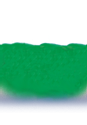
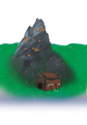
inventory display

Changed region(s): [[0.069, 0.12, 0.8966, 0.744], [0.8736, 0.672, 0.9885, 0.768]]

diff --git a/src/CustomStyle.js b/src/CustomStyle.js
@@ -28,7 +28,7 @@ const MOREMOREDEADGRASS = 15;
 const MOREDEADMTN = 16;
 const FISHMONGER = 17;
 const COURTHOUSE = 18;
-const MOREMOREMOREDEADGRASS = 19;
+const COPPERMTNCAMP = 19;
 const HARBOR = 20;
 const MARKET = 21;
 const TIMBERMILL = 22;
@@ -79,7 +79,7 @@ const CustomStyle = ({
   let doggers = useRef([]);
   let fish = useRef([]);
   let tiles = useRef([]);
-  let timber = useRef();
+  let inventoryImages = useRef({});
 
   let topLeftCorner = useRef();
   let topRightCorner = useRef();
@@ -128,7 +128,13 @@ const CustomStyle = ({
     rightEdge.current = p5.loadImage('/galleass/rightedge.png');
     leftEdge.current = p5.loadImage('/galleass/leftedge.png');
 
-    timber.current = p5.loadImage('/galleass/timber.png');
+    inventoryImages.current["greens"] = p5.loadImage('/galleass/greens.png')
+    inventoryImages.current["fillet"] = p5.loadImage('/galleass/fillet.png')
+    inventoryImages.current["timber"] = p5.loadImage('/galleass/timber.png')
+    inventoryImages.current["stone"] = p5.loadImage('/galleass/stone.png')
+    inventoryImages.current["copper"] = p5.loadImage('/galleass/copper.png')
+    inventoryImages.current["silver"] = p5.loadImage('/galleass/silver.png')
+
     //console.log("timber.current",timber.current)
 
     for (let c = 0; c < 7; c++) {
@@ -552,74 +558,135 @@ const CustomStyle = ({
       //if(populationsAtWork>0) console.log("There is a population of "+populationsAtWork+" at tile "+t+"...")
     }
 
-    const FOREST = 1;
-    const GRASS = 2;
-    const DOCK = 3;
-    const MOREGRASS = 4;
-    const RIVER = 5;
-    const EVENMOREGRASS = 6;
-    const SETTLERSDOCK = 7;
-    const COPPERMTN = 8;
-    const CORN = 9;
-    const DEADGRASS = 10;
-    const SETTLERS = 11;
-    const DEADMTN = 12;
-    const MOREDEADGRASS = 13;
-    const DEADTIMBER = 14;
-    const MOREMOREDEADGRASS = 15;
-    const MOREDEADMTN = 16;
-    const FISHMONGER = 17;
-    const COURTHOUSE = 18;
-    const MOREMOREMOREDEADGRASS = 19;
-    const HARBOR = 20;
-    const MARKET = 21;
-    const TIMBERMILL = 22;
-    const MININGCAMP = 23;
-    const MININGSHAFT = 24;
-    const MTN = 25;
-    const SILVERMTNCAMP = 26;
-    const SILVERMTN = 27;
-    const TIMBERCAMP = 28;
-    const VILLAGERS = 29;
-    const VILLAGERSDOCK = 30;
-    const WARRIORS = 31;
-    const WARRIORSDOCK = 32;
     */
 
-    let timberInventory = 0
+    let inventory = {}
+    let inventoryCount = 0
+
+    const addInventory = (name,amount)=>{
+      if(!inventory[name]) {
+        inventory[name] = {
+          amount: 0,
+          image: inventoryImages.current[name]
+        }
+        inventoryCount++
+      }
+      inventory[name].amount += amount
+    }
+
     for(let t in tileList){
       if(tileList[t]==FOREST){
-        //console.log("t",t,"FOREST")
-        timberInventory++
+        addInventory("timber",1)
       }else if(tileList[t]==TIMBERCAMP){
-        //console.log("t",t,"TIMBERCAMP")
-        timberInventory+=3
+        addInventory("timber",3)
       }else if(tileList[t]==TIMBERMILL){
-        //console.log("t",t,"TIMBERMILL")
-        timberInventory+=5
+        addInventory("timber",5)
       }
     }
+
+    for(let t in tileList){
+      if(tileList[t]==MTN){
+        addInventory("stone",1)
+      }else if(tileList[t]==MININGCAMP){
+        addInventory("stone",3)
+      }else if(tileList[t]==MININGSHAFT){
+        addInventory("stone",5)
+      }
+    }
+
+    for(let t in tileList){
+      if(tileList[t]==GRASS || tileList[t]==EVENMOREGRASS || tileList[t]==MOREGRASS || tileList[t]==DOCK ){
+        addInventory("greens",1)
+      }
+    }
+
+    for(let t in tileList){
+      if(tileList[t]==COPPERMTN ){
+        addInventory("copper", 3)
+      }else if(tileList[t]==COPPERMTNCAMP ){
+        addInventory("copper", 5)
+      }
+    }
+
+    for(let t in tileList){
+      if(tileList[t]==SILVERMTN ){
+        addInventory("silver", 3)
+      }else if(tileList[t]==SILVERMTN ){
+        addInventory("SILVERMTNCAMP", 5)
+      }
+    }
+
+    for(let t in tileList){
+      if(tileList[t]==SETTLERS ){
+        addInventory("fillet", 1)
+      }else if(tileList[t]==VILLAGERS ){
+        addInventory("fillet", 3)
+      }else if(tileList[t]==SETTLERSDOCK ){
+        addInventory("fillet", 2)
+      }else if(tileList[t]==VILLAGERSDOCK ){
+        addInventory("fillet", 5)
+      }
+    }
+
+
+    for(let t in tileList){
+      if( tileList[t]==RIVER ){
+        for(let i in inventory){
+          console.log("inventory",i,inventory)
+          inventory[i].amount = Math.floor(inventory[i].amount*1.5)
+        }
+      }
+    }
+
 
     const ICON_WIDTH = 60
     const ICON_HEIGHT = 40
 
     TEXTSIZE = 64 * M;
     LETTER_SPACING = 64 * M;
-    someString = '' + timberInventory
-    textStart = width / 2 - (someString.length * TEXTSIZE) / 4 - TEXTSIZE / 4;
-    for (let l in someString) {
-      //console.log("WRITINGE:",someString[l])
-      p5.image(
-        handwriting.current[translateChracterToPath(someString[l])],
-        textStart + (TEXTSIZE / 2) * l,
-        horizon - horizon / 3,
-        TEXTSIZE,
-        TEXTSIZE
-      );
-    }
-    p5.image(timber.current, width / 2 - ICON_WIDTH / 2 , horizon - horizon / 3 - ICON_HEIGHT, ICON_WIDTH, ICON_HEIGHT);
 
-    console.log("timberInventory",timberInventory)
+    const TOTAL_INV_SPACING=130
+
+    const drawInv = (amount,offset,image)=>{
+      someString = '' + amount
+      textStart =  width / 2 - (someString.length * TEXTSIZE) / 4 - TEXTSIZE / 4 + offset
+      for (let l in someString) {
+        //console.log("WRITINGE:",someString[l])
+        p5.image(
+          handwriting.current[translateChracterToPath(someString[l])],
+          textStart + (TEXTSIZE / 2) * l,
+          horizon - horizon / 3,
+          TEXTSIZE,
+          TEXTSIZE
+        );
+      }
+      p5.image(image, width / 2 - ICON_WIDTH / 2 + offset , horizon - horizon / 3 - ICON_HEIGHT, ICON_WIDTH, ICON_HEIGHT);
+    }
+
+
+
+    //if(inventory[timber]%2==1){
+      //drawInv(stoneInventory,,stone.current)
+    //}else{
+      console.log("inventoryCount",inventoryCount)
+      let extraOffset = 0
+      if(inventoryCount%2==1) extraOffset = TOTAL_INV_SPACING/2
+      let count = 0
+      for(let i in inventory){
+        console.log("Drawing ",i,inventory[i])
+        let offset = ((TOTAL_INV_SPACING) * ++count) - (inventoryCount * TOTAL_INV_SPACING/2) - TOTAL_INV_SPACING/2
+        drawInv(inventory[i].amount,offset,inventory[i].image)
+      }
+    //}
+
+
+
+
+
+
+
+
+
 
     p5.image(topRightCorner.current, width - 400 * M, 0, 400 * M, 396 * M);
     p5.image(topLeftCorner.current, 0, 0, 400 * M, 396 * M);
